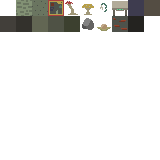
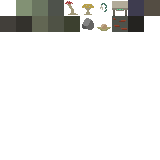
entity shit, fix renderer.tileChange

Changed region(s): [[0.2812, 0.0, 0.4062, 0.125], [0.0938, 0.0, 0.2188, 0.125]]

diff --git a/entities/entity.js b/entities/entity.js
@@ -512,7 +512,7 @@ Player.onConnect = function(socket, username, progress){
             player.activeSlot = 3
         else if (data.inputId === "five")
             player.activeSlot = 4
-    })  
+    })
 
     socket.on("sendMsgToServer", function(data){
         var playerName = ("" + socket.id).slice(2,7)
@@ -520,21 +520,14 @@ Player.onConnect = function(socket, username, progress){
             SOCKET_LIST[i].emit("addToChat", player.username + " (" + player.number + ")" +": " + data)
         }
     })
-
-    let f = Floof.getAllInitPack()
-    for(var i = 0; i < f.length; i++){
-        if(!Player.list[socket.id].getDistance(f[i]) < renderDistance){
-            let idx = f.indexOf(f[i])
-            f.splice(idx, 1)
-        }
-    }
-
     socket.emit("init",{
         selfId:socket.id,
         player:Player.getAllInitPack(),
         bullet:Bullet.getAllInitPack(),
-        floof:f,
+        floof:Floof.getAllInitPack(),
     })
+
+    return player;
 }
 
 Player.getAllInitPack = function(){
@@ -757,7 +750,7 @@ Floof.update = function(){
     for(var i in Floof.list){
         floofCount++
     }
-    if (Math.random() < 0.4 && floofCount < 50){
+    if (Math.random() < 0.9 && floofCount < 100){
         Floof()
     }
 
@@ -765,16 +758,11 @@ Floof.update = function(){
     for (var i in Floof.list){
         var floof = Floof.list[i]
         floof.update()
-        for(var j in Player.list){
-            if(Player.list[j].getDistance(floof) < renderDistance){
-                if (floof.toRemove) {
-                    delete Floof.list[i];
-                    removePack.floof.push(floof.id)
-                } else
-                    pack.push(floof.getUpdatePack())
-            } else
-                removePack.floof.push(floof.id)
-        }
+        if (floof.toRemove) {
+            delete Floof.list[i];
+            removePack.floof.push(floof.id)
+        } else
+            pack.push(floof.getUpdatePack())
     }
 
     return pack

diff --git a/app.js b/app.js
@@ -40,7 +40,8 @@ io.sockets.on("connection", function(socket){
             if(!result)
                 return socket.emit("signInResponse",{success: false})
             Database.getPlayerProgress(data.username, function(progress){
-                Player.onConnect(socket, data.username, progress)
+                let player = Player.onConnect(socket, data.username, progress)
+                SOCKET_LIST[socket.id].player = player;
                 socket.emit("signInResponse",{success: true})
             })
         })  
@@ -74,11 +75,27 @@ io.sockets.on("connection", function(socket){
 
 // Game Loop
 setInterval(function(){
-    var packs = Entity.getFrameUpdateData()
+    let packs = Entity.getFrameUpdateData()
     for (var i in SOCKET_LIST){
-        var socket = SOCKET_LIST[i]
+        let socket = SOCKET_LIST[i]
+        let player = socket.player;
+        if (player === null || player === undefined) continue;
+
+        let updatePack = {
+            floof: [],
+            player: packs.updatePack.player,
+            bullet: packs.updatePack.bullet
+        };
+
+        for (let floof of packs.updatePack.floof) {
+            if (Math.abs(floof.x - player.x) < 400 &&
+                Math.abs(floof.y - player.y) < 400) {
+                    updatePack.floof.push(floof);
+            }
+        }
+        
         socket.emit("init", packs.initPack)
-        socket.emit("update", packs.updatePack)
+        socket.emit("update", updatePack)
         socket.emit("remove", packs.removePack)
     }
 }, 1000/75) // 144 updates per second (so people with 144Hz monitors won't complain)

diff --git a/client/index.html b/client/index.html
@@ -137,7 +137,7 @@
     let quads = {
         player_left:  new Quad(0, 0, 100, 100, 0, 0, 32, 32),
         player_right: new Quad(0, 0, 100, 100, 32, 0, 32, 32),
-        floof:        new Quad(0, 0, 48,  48,  64, 0, 16, 16),
+        floof:        new Quad(0, 0, 40,  40,  64, 0, 16, 16),
         hover_tile:   new Quad(0, 0, 50,  90,  80, 0, 50, 90),
     };
     
@@ -397,6 +397,8 @@
     // Game Rendering Loop
     const fpsElem = document.querySelector("#fps");
     const avgElem = document.querySelector("#avg");
+    const coordElem = document.querySelector("#coords");
+    const hotbarElem = document.querySelector("#hotbar");
     
     const frameTimes = [];
     let   frameCursor = 0;
@@ -470,7 +472,7 @@
         //ctx.fillRect(selectedTileX - Player.list[selfId].x + ctx.width/2, selectedTileY - Player.list[selfId].y + ctx.height/2 - 40, tpd, 90)
         //ctx.drawImage(Img.hover_tile ,selectedTileX - Player.list[selfId].x + ctx.width/2, selectedTileY - Player.list[selfId].y + ctx.height/2 - 40, tpd, 90)
         renderer.renderQuadAt(quads.hover_tile,
-            selectedTileX - Player.list[selfId].x + ctx.width / 2,
+            selectedTileX - Player.list[selfId].x + ctx.width / 2 - quads.hover_tile.screenSizeX / 2,
             selectedTileY - Player.list[selfId].y + ctx.height / 2 - 40);
         //    mouseX,
         //    mouseY);

diff --git a/client/render.js b/client/render.js
@@ -19,22 +19,22 @@ const sheetWidth = 10;
 const tileHeights = {
     1: 0,
     2: 0,
-    3: 6,
+    3: 14,
     4: 0,
     5: 0,
     6: 0,
-    7: 0,
-    8: 0,
+    7: 14,
+    8: 14,
     9: 0,
     10: 0,
-    11: 0,
+    11: 11,
     12: 0,
     13: 0,
-    14: 0,
+    14: 13,
     15: 0,
     16: 0,
-    17: 0,
-    18: 0,
+    17: 14,
+    18: 13,
 };
 
 const tileBehind = {
@@ -206,8 +206,8 @@ class Renderer {
     tileChange(chunkX, chunkY, tileX, tileY, tileType) {
         const data = new Uint8Array([tileType, 0, tileHeights[tileType], tileBehind[tileType]]);
 
-        const xoff = chunkX - this.lx + tileX;
-        const yoff = chunkY - this.ly + tileY;
+        const xoff = (chunkX - this.lx) * 32 + tileX;
+        const yoff = (chunkY - this.ly) * 32 + tileY;
         
         this.gl.activeTexture(this.gl.TEXTURE1);
         this.gl.bindTexture(this.gl.TEXTURE_2D, this.map);
